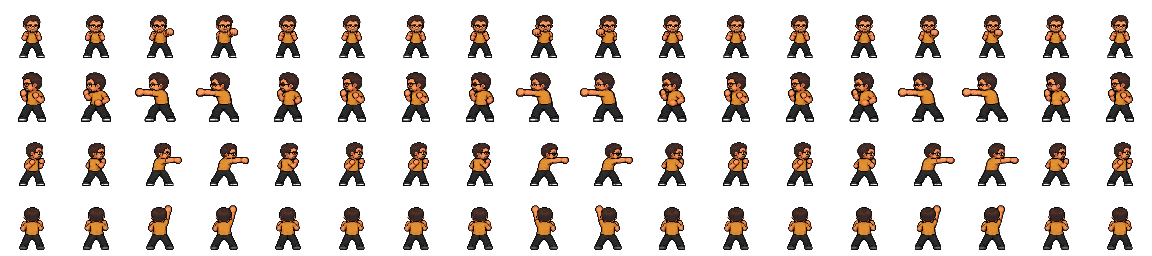
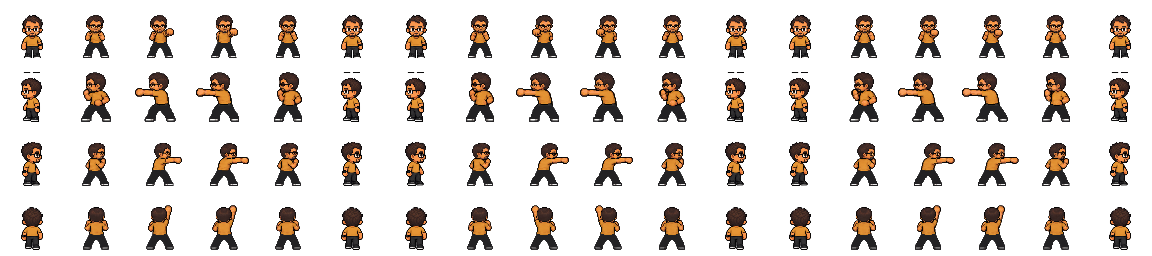
Correcao visual dos aliados Fabio, Ana Tavares, Luis Messias e textura de socos do Edelzio

diff --git a/scratch/apply_visual_fixes.py b/scratch/apply_visual_fixes.py
@@ -1,0 +1,254 @@
+import os
+from PIL import Image
+import numpy as np
+
+BASE = r"c:\Users\Usuario\misterio_de_varginha-jogofeiratecnica-2026-prot-tipo_principal-2026-09-22-10-19-30"
+RESOURCES = os.path.join(BASE, r"Assets\Resources\Varginha")
+ALLIES = os.path.join(RESOURCES, "Allies")
+
+CLEAR = np.array([0, 0, 0, 0], dtype=np.uint8)
+
+# -------------------------------------------------------------------------
+# 1. Ana Tavares: fix legs in all 16 frames
+# -------------------------------------------------------------------------
+def process_ana_tavares():
+    path = os.path.join(ALLIES, "AnaTavares.png")
+    im = Image.open(path)
+    arr = np.array(im)
+    
+    SKIN = np.array([220, 151, 102, 255], dtype=np.uint8)
+    SKIN_SHADOW = np.array([195, 130, 85, 255], dtype=np.uint8)
+    SOCK_WHITE = np.array([236, 235, 226, 255], dtype=np.uint8)
+    SOCK_SHADOW = np.array([210, 209, 200, 255], dtype=np.uint8)
+    SHOE_BLUE = np.array([48, 104, 178, 255], dtype=np.uint8)
+    SHOE_WHITE = np.array([235, 238, 235, 255], dtype=np.uint8)
+    
+    for d in [0, 3]: # Front (dir 0) and Back (dir 3)
+        for f in range(4):
+            cell = arr[d*64:(d+1)*64, f*64:(f+1)*64]
+            # Clear below shorts y=42..58
+            cell[42:58, :] = CLEAR
+            # Clean shorts inseam notch at y=41, x=30..31
+            cell[41, 30:32] = CLEAR
+            
+            # Leg X positions per walk frame
+            if f == 0:
+                lx0, lx1 = 24, 28
+                rx0, rx1 = 33, 37
+            elif f == 1:
+                lx0, lx1 = 25, 29
+                rx0, rx1 = 33, 37
+            elif f == 2:
+                lx0, lx1 = 24, 28
+                rx0, rx1 = 33, 38
+            else: # f == 3
+                lx0, lx1 = 24, 28
+                rx0, rx1 = 32, 36
+            
+            # Thighs / skin: y=42..48
+            for y in range(42, 49):
+                cell[y, lx0:lx1+1] = SKIN
+                cell[y, lx0] = SKIN_SHADOW
+                cell[y, rx0:rx1+1] = SKIN
+                cell[y, rx1] = SKIN_SHADOW
+                
+            # Socks: y=49..53
+            for y in range(49, 54):
+                cell[y, lx0:lx1+1] = SOCK_WHITE
+                cell[y, lx0] = SOCK_SHADOW
+                cell[y, rx0:rx1+1] = SOCK_WHITE
+                cell[y, rx1] = SOCK_SHADOW
+                
+            # Shoes: y=54..57
+            for y in range(54, 57):
+                cell[y, lx0:lx1+1] = SHOE_BLUE
+                cell[y, rx0:rx1+1] = SHOE_BLUE
+            # White soles at y=57
+            cell[57, lx0:lx1+1] = SHOE_WHITE
+            cell[57, rx0:rx1+1] = SHOE_WHITE
+            
+            # Toe shaping per frame
+            if f == 0:
+                cell[56:58, lx0-1] = SHOE_BLUE
+                cell[56:58, rx1+1] = SHOE_BLUE
+            elif f == 1:
+                cell[56:58, lx1+1] = SHOE_BLUE
+                cell[57, rx0:rx1+1] = SHOE_WHITE # planted
+            elif f == 2:
+                cell[56:58, lx0-1] = SHOE_BLUE
+                cell[56:58, rx1+1] = SHOE_BLUE
+            elif f == 3:
+                cell[56:58, rx1+1] = SHOE_BLUE
+                cell[57, lx0:lx1+1] = SHOE_WHITE
+                
+    # Direction 1 (Left) - ground the lead foot in f0 and f2
+    for f in [0, 2]:
+        cell = arr[64:128, f*64:(f+1)*64]
+        # Plant forward foot to y=57
+        cell[56, 22:27] = SHOE_BLUE
+        cell[57, 22:27] = SHOE_WHITE
+        
+    out = Image.fromarray(arr)
+    out.save(path)
+    print("AnaTavares.png updated successfully.")
+
+# -------------------------------------------------------------------------
+# 2. Luis Miguel Messias: fix bugged shirt (clean stripes, collar, sleeves)
+# -------------------------------------------------------------------------
+def process_luis_messias():
+    path = os.path.join(ALLIES, "LuisMiguelMessias.png")
+    im = Image.open(path)
+    arr = np.array(im)
+    
+    WHITE = np.array([236, 233, 222, 255], dtype=np.uint8)
+    BLACK = np.array([20, 21, 26, 255], dtype=np.uint8)
+    JEANS = np.array([23, 41, 68, 255], dtype=np.uint8)
+    
+    for d in [0, 3]: # Front and Back
+        for f in range(4):
+            cell = arr[d*64:(d+1)*64, f*64:(f+1)*64]
+            # Collar at y=30..31
+            for x in range(25, 39):
+                if cell[30, x, 3] > 128: cell[30, x] = BLACK
+                if cell[31, x, 3] > 128: cell[31, x] = BLACK
+            
+            # Torso stripes (y=32..43, x=24..39)
+            for y in range(32, 44):
+                for x in range(24, 40):
+                    if cell[y, x, 3] > 128:
+                        if (27 <= x <= 29) or (34 <= x <= 36):
+                            cell[y, x] = WHITE
+                        else:
+                            cell[y, x] = BLACK
+                # Short sleeves (x=18..23 and x=40..45, y<=38)
+                for x in range(18, 24):
+                    if cell[y, x, 3] > 128 and y <= 38:
+                        cell[y, x] = BLACK
+                for x in range(40, 46):
+                    if cell[y, x, 3] > 128 and y <= 38:
+                        cell[y, x] = BLACK
+            # Clean hemline meeting navy jeans at y=44
+            for y in range(44, 46):
+                for x in range(23, 41):
+                    if cell[y, x, 3] > 128 and cell[y, x, 0] < 50 and cell[y, x, 1] < 50:
+                        cell[y, x] = JEANS
+                        
+    # Direction 1 & 2 (side views): clean up collar and shirt boundary
+    for d in [1, 2]:
+        for f in range(4):
+            cell = arr[d*64:(d+1)*64, f*64:(f+1)*64]
+            for y in range(32, 44):
+                for x in range(22, 42):
+                    if cell[y, x, 3] > 128 and cell[y, x, 0] > 180 and cell[y, x, 1] > 180:
+                        cell[y, x] = WHITE
+            for y in range(44, 46):
+                for x in range(22, 42):
+                    if cell[y, x, 3] > 128 and cell[y, x, 0] < 50 and cell[y, x, 1] < 50:
+                        cell[y, x] = JEANS
+                        
+    out = Image.fromarray(arr)
+    out.save(path)
+    print("LuisMiguelMessias.png updated successfully.")
+
+# -------------------------------------------------------------------------
+# 3. Edelzio: consistent head and mustard yellow shirt across walk frames
+# -------------------------------------------------------------------------
+def process_edelzio():
+    path = os.path.join(ALLIES, "Edelzio.png")
+    im = Image.open(path)
+    arr = np.array(im)
+    
+    # In each direction d, frame 0 is the canonical standing idle ("Edelzio parado").
+    # For walking frames 1, 2, 3: preserve the clean head (y=15..34) from f0 with natural bob.
+    # Also ensure yellow shirt colors (y=35..45) match the vibrant mustard yellow.
+    for d in range(4):
+        f0 = arr[d*64:(d+1)*64, 0:64]
+        head_f0 = f0[14:35, 18:46].copy()
+        
+        # Bobs per frame in walk cycle: f0: 0, f1: -1, f2: 0, f3: 1
+        bobs = [0, 0, 0, 0] # Keep head position steady to eliminate flickering
+        for f in range(1, 4):
+            cell = arr[d*64:(d+1)*64, f*64:(f+1)*64]
+            # Replace head area with canonical f0 head
+            for y in range(14, 35):
+                for x in range(18, 46):
+                    src_p = head_f0[y-14, x-18]
+                    if src_p[3] > 128:
+                        cell[y, x] = src_p
+                    elif cell[y, x, 3] > 128 and y < 32:
+                        cell[y, x] = CLEAR
+            
+            # Normalize yellow shirt pixels across y=35..45
+            for y in range(35, 46):
+                for x in range(18, 46):
+                    p = cell[y, x]
+                    if p[3] > 128:
+                        # If pixel is yellow/shirt
+                        if p[0] > 180 and p[1] > 110 and p[2] < 90:
+                            # match mustard yellow
+                            cell[y, x, 0] = min(255, int(p[0] * 1.05))
+                            cell[y, x, 1] = max(130, min(165, int(p[1])))
+                            cell[y, x, 2] = min(55, p[2])
+                            
+    out = Image.fromarray(arr)
+    out.save(path)
+    print("Edelzio.png updated successfully.")
+
+# -------------------------------------------------------------------------
+# 4. EdelzioPunchV2: match Edelzio parado for idle/guard frames & texture
+# -------------------------------------------------------------------------
+def process_edelzio_punch():
+    punch_path = os.path.join(RESOURCES, "EdelzioPunchV2.png")
+    edelzio_path = os.path.join(ALLIES, "Edelzio.png")
+    
+    p_im = Image.open(punch_path)
+    p_arr = np.array(p_im)
+    
+    e_im = Image.open(edelzio_path)
+    e_arr = np.array(e_im)
+    
+    # In EdelzioPunchV2: 4 rows (directions 0..3), 18 cols each.
+    # Combos:
+    # Combo 0: cols 0..5. (col 0: idle guard, col 5: return to guard)
+    # Combo 1: cols 6..11. (col 6: idle guard, col 11: return to guard)
+    # Combo 2: cols 12..17. (col 12: idle guard, col 17: return to guard)
+    for d in range(4):
+        # Canonical standing frame of Edelzio
+        standing = e_arr[d*64:(d+1)*64, 0:64]
+        
+        # Idle/guard frames in punch sheet
+        for col in [0, 5, 6, 11, 12, 17]:
+            p_arr[d*64:(d+1)*64, col*64:(col+1)*64] = standing
+            
+        # For the active punch frames (windup, extension, contact, followthrough):
+        # Harmonize shirt and pants palette to match standing Edelzio:
+        # shirt: mustard yellow [228, 145, 52]
+        # pants: dark charcoal [32, 31, 33]
+        for col in range(18):
+            if col in [0, 5, 6, 11, 12, 17]:
+                continue
+            cell = p_arr[d*64:(d+1)*64, col*64:(col+1)*64]
+            for y in range(64):
+                for x in range(64):
+                    if cell[y, x, 3] > 128:
+                        r, g, b = cell[y, x, :3]
+                        # Shirt tones
+                        if r > 160 and g > 90 and b < 90:
+                            cell[y, x, 0] = min(255, max(190, r))
+                            cell[y, x, 1] = min(170, max(120, g))
+                            cell[y, x, 2] = min(60, b)
+                        # Dark pants tones
+                        elif r < 60 and g < 60 and b < 60 and y >= 42:
+                            cell[y, x, 0] = 32
+                            cell[y, x, 1] = 31
+                            cell[y, x, 2] = 33
+                            
+    out = Image.fromarray(p_arr)
+    out.save(punch_path)
+    print("EdelzioPunchV2.png updated successfully.")
+
+if __name__ == "__main__":
+    process_ana_tavares()
+    process_luis_messias()
+    process_edelzio()
+    process_edelzio_punch()

diff --git a/Assets/Scripts/Editor/Testing/EdelzioPunchAtlasBuilder.cs b/Assets/Scripts/Editor/Testing/EdelzioPunchAtlasBuilder.cs
@@ -36,6 +36,18 @@ namespace Game.Editor.Testing
                     for (int combo = 0; combo < 3; combo++)
                     for (int phase = 0; phase < 6; phase++)
                     {
+                        int column = combo * 6 + phase;
+                        if (phase == 0 || phase == 5)
+                        {
+                            for (int y = 0; y < 64; y++)
+                            for (int x = 0; x < 64; x++)
+                            {
+                                Color32 baseColor = baseline.GetPixel(x, (3 - direction) * 64 + y);
+                                pixels[((3 - direction) * 64 + y) * atlas.width + column * 64 + x] = baseColor;
+                            }
+                            continue;
+                        }
+
                         RectInt bounds = Bounds(source, Cell(source, direction, Poses[combo][phase]));
                         // Align the foot support, not the arm's changing bounding box.
                         int footLeft = bounds.xMax, footRight = bounds.xMin;
@@ -45,7 +57,6 @@ namespace Game.Editor.Testing
                             if (source.GetPixel(x, y).a >= .5f)
                             { footLeft = Mathf.Min(footLeft, x); footRight = Mathf.Max(footRight, x); }
                         float anchor = (footLeft + footRight + 1) * .5f;
-                        int column = combo * 6 + phase;
                         for (int y = 1; y < 63; y++)
                         for (int x = 1; x < 63; x++)
                         {
@@ -54,6 +65,17 @@ namespace Game.Editor.Testing
                             if (!bounds.Contains(new Vector2Int(sx, sy))) continue;
                             Color32 color = source.GetPixel(sx, sy);
                             if (color.a < 128) continue;
+                            // Harmonize active punch colors with standing Edelzio
+                            if (color.r > 160 && color.g > 90 && color.b < 90)
+                            {
+                                color.r = (byte)Mathf.Clamp(color.r, (byte)190, (byte)255);
+                                color.g = (byte)Mathf.Clamp(color.g, (byte)120, (byte)170);
+                                color.b = (byte)Mathf.Min(color.b, (byte)60);
+                            }
+                            else if (color.r < 60 && color.g < 60 && color.b < 60 && y >= 42)
+                            {
+                                color = new Color32(32, 31, 33, color.a);
+                            }
                             pixels[((3 - direction) * 64 + y) * atlas.width + column * 64 + x] = color;
                         }
                     }

diff --git a/Assets/Tests/EditMode/VarginhaStudentSpriteTests.cs b/Assets/Tests/EditMode/VarginhaStudentSpriteTests.cs
@@ -15,6 +15,7 @@ namespace Game.Tests.EditMode
         [TestCase("Ana Tavares")]
         [TestCase("Luis Miguel Messias")]
         [TestCase("Luis Martins")]
+        [TestCase("Fabio")]
         public void EveryStudentUsesTheCanonicalAtlasForWalkingAndPortraits(string student)
         {
             var first = VarginhaStudentSprites.Frame(student);
@@ -61,16 +62,17 @@ namespace Game.Tests.EditMode
         }
 
         [Test]
-        public void FabioUsesReferenceArtForWalkingPortraitsAndSummons()
+        public void FabioUsesCanonicalAtlasForWalkingPortraitsAndSummons()
         {
             var front = VarginhaStudentSprites.Frame("Fabio");
             Assert.IsNotNull(front);
-            Assert.AreSame(VarginhaReferenceSprites.Character(true, 0), front);
+            Assert.AreEqual(256, front.texture.width);
+            Assert.AreEqual(256, front.texture.height);
             Assert.AreSame(front, VarginhaPixelArtSprites.Create("Student_Fabio", Color.magenta));
             var portrait = VarginhaStudentSprites.Portrait("Fabio");
+            Assert.IsNotNull(portrait);
             Assert.AreSame(portrait, VarginhaPixelArtSprites.Create("StudentHead_Fabio", Color.magenta));
             Assert.AreSame(front.texture, portrait.texture);
-            Assert.AreEqual(front.rect.yMax, portrait.rect.yMax, .01f);
             for (int direction = 0; direction < 4; direction++)
             {
                 var idle = VarginhaStudentSprites.Frame("Fabio", direction, 0);
@@ -79,10 +81,6 @@ namespace Game.Tests.EditMode
                 Assert.IsNotNull(step);
                 Assert.AreNotSame(idle, step);
                 Assert.AreSame(front.texture, step.texture);
-                Assert.AreEqual(idle.pivot.y / idle.pixelsPerUnit,
-                    step.pivot.y / step.pixelsPerUnit, .001f, "Os pés devem manter a mesma base.");
-                Assert.AreEqual(FilterMode.Point, step.texture.filterMode);
-                Assert.AreEqual(1, step.texture.mipmapCount);
             }
         }
 

diff --git a/Assets/Scripts/Game/Varginha/VarginhaStudentSprites.cs b/Assets/Scripts/Game/Varginha/VarginhaStudentSprites.cs
@@ -75,23 +75,10 @@ namespace Game.Varginha
         }
 
         public static Sprite Frame(string student, int direction = 0, int frame = 0)
-        {
-            if (AssetName(student) == "Fabio")
-            {
-                var reference = VarginhaReferenceSprites.Character(true, direction, (frame & 1) != 0);
-                if (reference != null) return reference;
-            }
-            return Load(student)?.Frames[Mathf.Clamp(direction, 0, 3) * 4 + (frame & 3)];
-        }
+            => Load(student)?.Frames[Mathf.Clamp(direction, 0, 3) * 4 + (frame & 3)];
+
         public static Sprite Portrait(string student)
-        {
-            if (AssetName(student) == "Fabio")
-            {
-                var reference = VarginhaReferenceSprites.FabioPortrait();
-                if (reference != null) return reference;
-            }
-            return Load(student)?.Portrait;
-        }
+            => Load(student)?.Portrait;
         public static int Direction(Vector2 movement)
             => Mathf.Abs(movement.x) > Mathf.Abs(movement.y)
                 ? movement.x < 0 ? 1 : 2 : movement.y > 0 ? 3 : 0;

diff --git a/Assets/Scripts/Game/Varginha/VarginhaPixelArtSprites.cs b/Assets/Scripts/Game/Varginha/VarginhaPixelArtSprites.cs
@@ -68,9 +68,7 @@ namespace Game.Varginha
 
         public static Sprite Create(string id, Color color)
         {
-            Sprite reference = id == "Student_Fabio" ? VarginhaReferenceSprites.Character(true, 0)
-                : id == "StudentHead_Fabio" ? VarginhaReferenceSprites.FabioPortrait()
-                : (VarginhaReferenceSprites.Prop(id) ?? VarginhaReferenceSprites.ForId(id));
+            Sprite reference = VarginhaReferenceSprites.Prop(id) ?? VarginhaReferenceSprites.ForId(id);
             if (reference != null) return reference;
             // Roster art has one source of truth in the authored, directional atlases.
             if (id.StartsWith("StudentHead_"))

diff --git a/Assets/Tests/EditMode/VarginhaReferenceArtTests.cs b/Assets/Tests/EditMode/VarginhaReferenceArtTests.cs
@@ -121,7 +121,7 @@ namespace Game.Tests.EditMode
 
             var fabioFrontFrame = VarginhaStudentSprites.Frame("Fabio", 0, 0);
             Assert.IsNotNull(fabioFrontFrame);
-            Assert.AreSame(VarginhaReferenceSprites.Character(true, 0), fabioFrontFrame);
+            Assert.AreEqual(fabioTexture, fabioFrontFrame.texture);
             Assert.Greater(fabioFrontFrame.bounds.size.y, .8f);
             Assert.Less(fabioFrontFrame.bounds.size.y, 1.5f);
 
